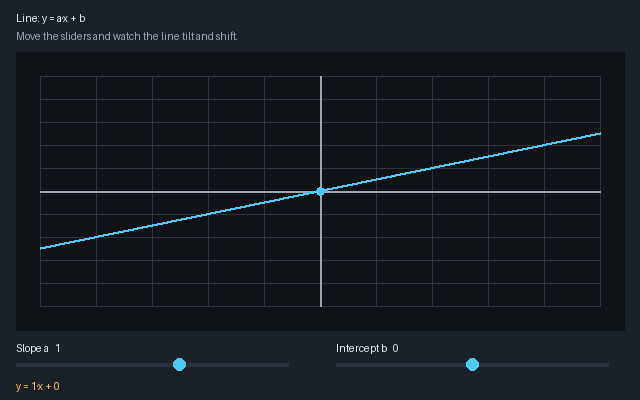
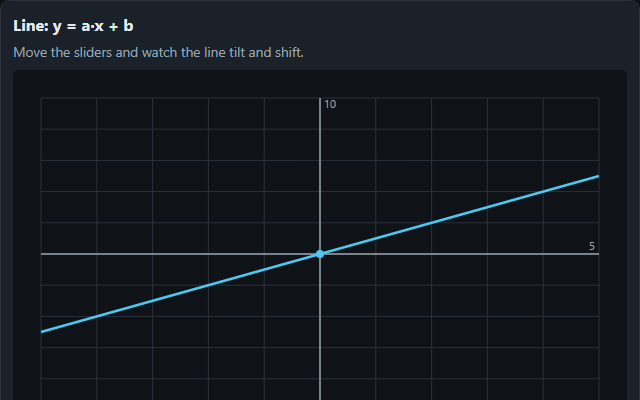
chore: preview.png for the six widgets (headless Edge), registry validates ok; docs for demo_config and the lecture page
Activity: ACT-00069

diff --git a/README.md b/README.md
@@ -57,3 +57,7 @@ do not need a server — open `widgets/of-template/index.html` directly to see o
 
 This repository is independent of BrainCore / ASI OS. The planning record (catalog, work plan,
 decision log) lives in the ASI OS activity `ACT-00069`; see `PROJECT.md`.
+
+## Lecture pages
+
+`lessons/ml-models-lecture.html` — six widgets in teaching order (line + MSE → gradient descent → logistic regression → naive Bayes → decision tree → k-means), opens from `file://`, EN/RU toggle. Previews: `python tools/make-previews.py` (headless Edge/Chrome); demo pages: `python tools/gen-widget-pages.py`.

diff --git a/docs/registry-schema.md b/docs/registry-schema.md
@@ -61,3 +61,9 @@ Also required on disk for a `published` entry: `widgets/<id>/component.js` (erro
   "preview": "widgets/of-sigmoid/preview.png"
 }
 ```
+
+## Optional keys (added 2026-10-21)
+
+| Key | Type | Meaning |
+| --- | --- | --- |
+| `demo_config` | object | the custom config shown as the second (RU) instance on the widget's generated `index.html` (`tools/gen-widget-pages.py`) |
